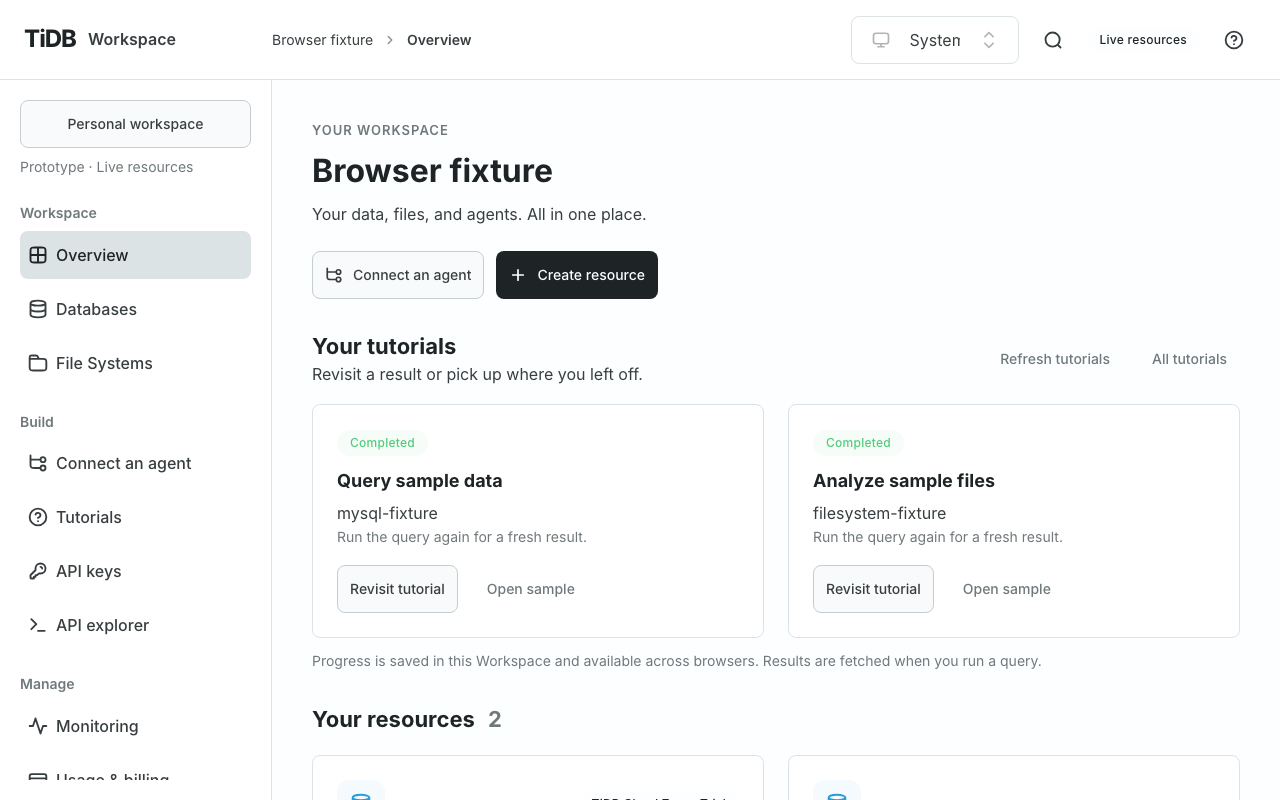
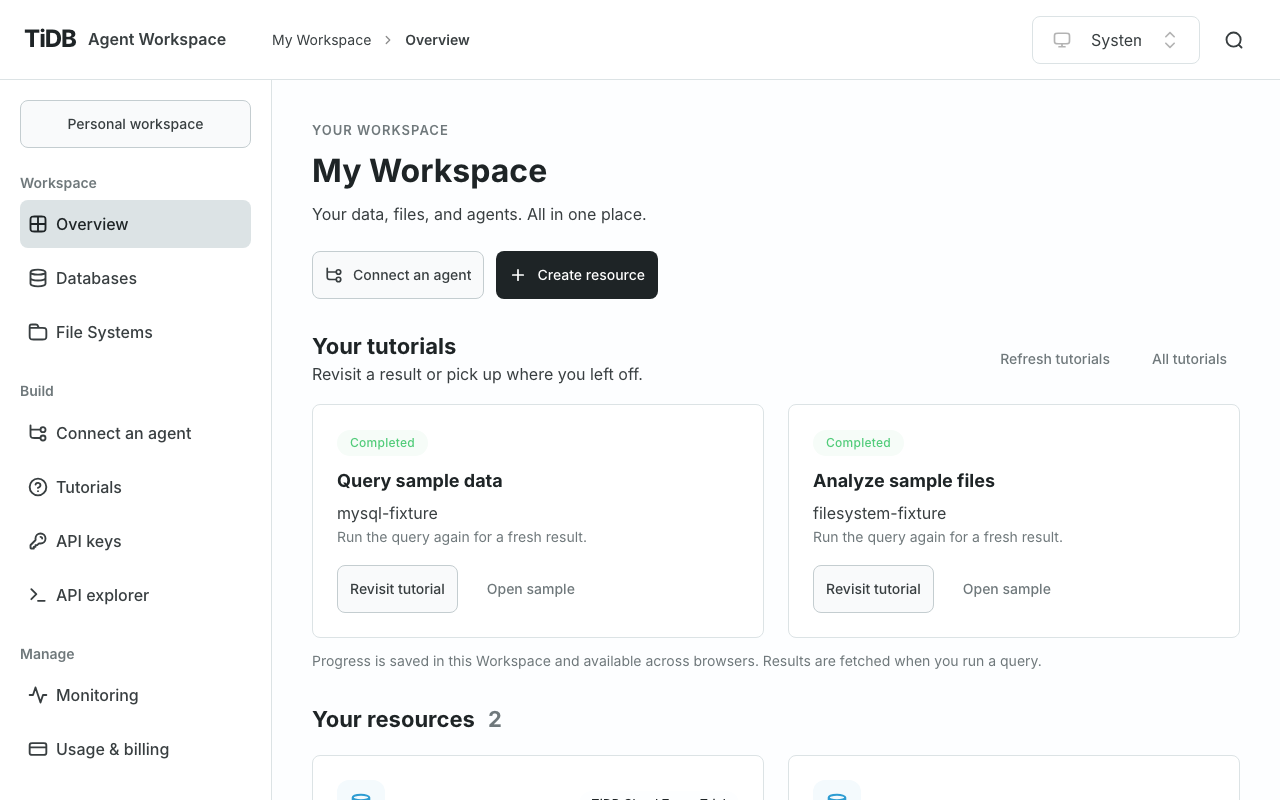
fix(previews): use the default Workspace name

diff --git a/docs/standards/product-experience.md b/docs/standards/product-experience.md
@@ -44,6 +44,8 @@ provider/demo/expiry information explicit. Use one quiet footer **Powered by TiD
 to the [TiDB Cloud product page](https://www.pingcap.com/tidb/cloud/). Verify desktop branding,
 mobile navigation, footer destination and the absence of the removed entry points in both
 themes and viewport sizes. Revisit when Workspace-specific documentation is available.
+Customer-facing previews and screenshots use natural Workspace names such as **My Workspace**;
+keep fixture/harness terminology in internal identifiers, not the displayed Workspace name.
 
 The shared-shell browser case verifies the removed destinations, external attribution target,
 brand return and mobile navigation. Reviewed evidence: [desktop dark header](../screenshots/branding/header-desktop-dark.png),
